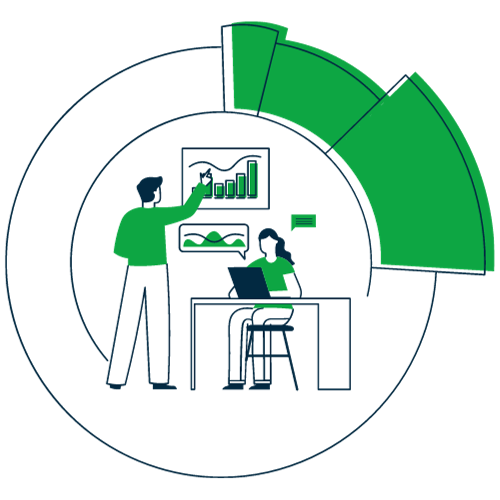
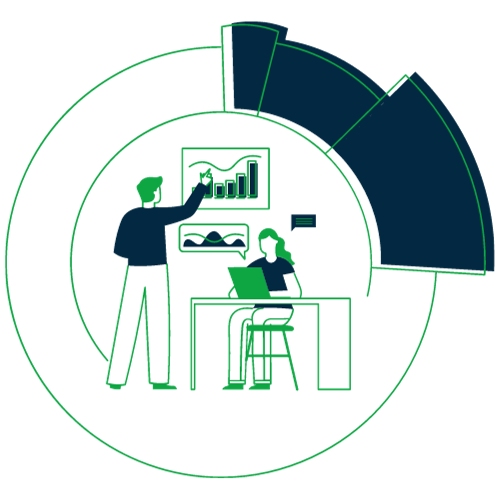
mudança nas cores da imagem da pagina de resultado, começo da responsividade do site

diff --git a/src/css/conteudos.css b/src/css/conteudos.css
@@ -138,7 +138,7 @@ main span {
   width: 350px;
   height: 100px;
   background-color: #022941;
-  border-radius: 60px;
+  border-radius: 20px;
   gap: 20px;
 }
 .videoContainer2 {
@@ -148,7 +148,7 @@ main span {
     width: 350px;
     height: 100px;
     background-color: #022941;
-    border-radius: 60px;
+    border-radius: 20px;
     gap: 20px;
     margin-top: 20px;
     
@@ -187,7 +187,7 @@ main span {
     width: 350px;
     height: 100px;
     background-color: #022941;
-    border-radius: 60px;
+    border-radius: 20px;
     gap: 20px;
     margin-top: 20px;
 }
@@ -199,7 +199,7 @@ main span {
     width: 350px;
     height: 100px;
     background-color: #022941;
-    border-radius: 60px;
+    border-radius: 20px;
     gap: 20px;
     margin-top: 20px;
 }
@@ -237,7 +237,7 @@ main span {
     width: 350px;
     height: 100px;
     background-color: #022941;
-    border-radius: 60px;
+    border-radius: 20px;
     gap: 20px;
     margin-top: 20px;
 }

diff --git a/src/css/resultado.css b/src/css/resultado.css
@@ -119,6 +119,7 @@ button a:hover {
 main {
     margin: 20px;
     display: flex;
+    flex-direction: row;
     justify-content: center;
     align-items: center;
     gap: 50px;
@@ -250,3 +251,8 @@ p {
     justify-content: center;
     color: white;
 }
+@media (max-width: 600px) {
+    main {
+      flex-direction: column; /* ou qualquer valor desejado para dispositivos móveis */
+    }
+  }

diff --git a/pages/paginaResultado.html b/pages/paginaResultado.html
@@ -3,6 +3,7 @@
 
 <head>
   <meta charset="utf-8" />
+  <meta name="viewport" content="width=device-width, initial-scale=1">
   <title>Rookie Coder Network | Resultado Quiz</title>
   <link rel="stylesheet" type="text/css" href="../src/css/resultado.css" />
 </head>
